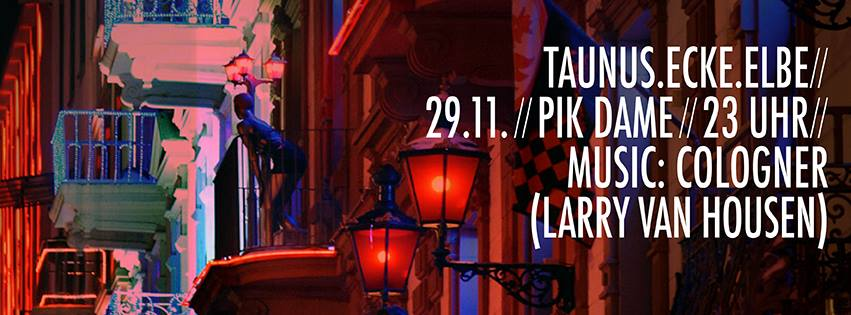
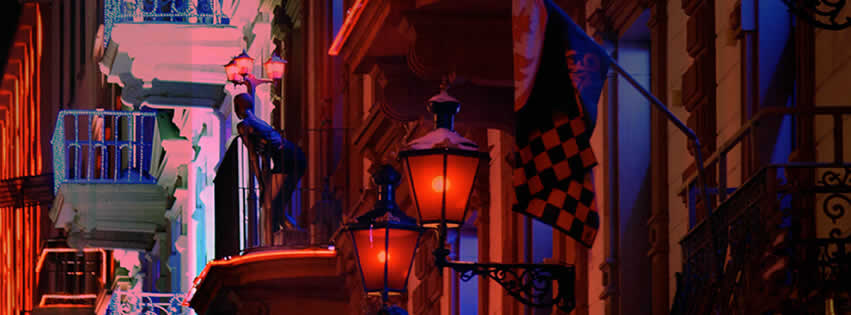
Pik-Dame Bilder geaddet, Texte korrigiert

diff --git a/assets/scss/main.scss b/assets/scss/main.scss
@@ -30,6 +30,7 @@ header {
     text-align:             center;
     font-size:              4em;
     padding-top:            60px;
+    background:             url("/assets/img/bg_header-text.jpg") left top no-repeat;
 }
 
 footer {

diff --git a/assets/css/main.css b/assets/css/main.css
@@ -32,7 +32,8 @@ article {
 header {
   text-align: center;
   font-size: 4em;
-  padding-top: 60px; }
+  padding-top: 60px;
+  }
 
 footer {
   text-align: right;

diff --git a/index.php b/index.php
@@ -79,7 +79,7 @@
   <div class="container main-container">
 
     <header>
-        <img src="assets/img/bg_header.jpg" class="img-responsive" alt="29.11. PIK DAME, FFM" width="1140">
+        <img src="/assets/img/bg_header-text.jpg" class="img-responsive" alt="29.11. PIK DAME, FFM" width="1140">
     </header>
 
     <article id="party">
@@ -94,7 +94,7 @@
                 <h3>TAUNUS.ECKE.ELBE</h3>
                 <dl class="dl-horizontal">
                   <dt>Wo</dt>
-                  <dd><a href="#" data-toggle="modal" data-target="#pikdame">Pik-Dame FFM</a></dd>
+                  <dd><a href="#" data-toggle="modal" data-target="#pikdame">Nachtclub Pik-Dame // FFM</a></dd>
                   <dt>Musik</dt>
                   <dd><a href="#" data-toggle="modal" data-target="#larryvanhousen">Larry van Housen. Big Hits.</a></dd>
                   <dt>Einlass</dt>
@@ -135,7 +135,15 @@
                   <div class="modal-dialog">
                     <div class="modal-content">
                       <div class="modal-body center-block">
-                        <iframe class="center-block" width="450" height="450" src="https://maps.google.de/maps?q=pik+dame+frankfurt&amp;ie=UTF8&amp;hq=pik+dame&amp;hnear=Frankfurt,+Darmstadt,+Hessen&amp;t=m&amp;ll=50.111937,8.668213&amp;spn=0.012385,0.019312&amp;z=15&amp;iwloc=A&amp;output=embed"></iframe>
+
+                        <p>
+                        <img src="/assets/img/pik-dame/pik1.jpg" alt="Pik-Dame" class="img-responsive img-thumbnail">
+                        </p>
+                        <p>
+                        <img src="/assets/img/pik-dame/pik2.jpg" alt="Pik-Dame" class="img-responsive img-thumbnail">
+                        </p>
+                        <iframe class="center-block" src="//www.facebook.com/plugins/likebox.php?href=https%3A%2F%2Fwww.facebook.com%2Fnachtclub.Pik.Dame&amp;width&amp;height=258&amp;colorscheme=light&amp;show_faces=true&amp;header=false&amp;stream=false&amp;show_border=true&amp;appId=312582552188555" scrolling="no" frameborder="0" style="border:none; overflow:hidden; height:258px;" allowTransparency="true"></iframe>
+
                       </div>
                       <div class="modal-footer">
                         <button type="button" class="btn btn-default" data-dismiss="modal">Schließen</button>
@@ -149,8 +157,7 @@
             <div class="col-md-5">
                 <h3>Was und warum?</h3>
                 <p>
-                  Taunus.Ecke.Elbe. Dort lebte Felix. Dort feierte Felix. Dort feiern wir. Für Felix. Die ganze Nacht. Direkt unter seinem Balkon. Bis es hell wird.
-                  <br>Kommt alle!
+                  Taunus.Ecke.Elbe. Dort lebte Felix. Dort feierte Felix. Dort feiern wir. Für Felix. Die ganze Nacht. Direkt unter seinem Balkon. Bis es hell wird. Kommt alle!
                 </p>
                 <!-- AddThis Button BEGIN -->
                 <div class="addthis_toolbox addthis_default_style ">
@@ -182,24 +189,23 @@
             </div>
             <div class="col-md-8">
                 <p>
-                  Felix Helbig wurde am 29.11.1981 geboren und fing schon mit 16 Jahren bei der Frankfurter Rundschau an. Schnell konnte er sich dort einen Namen machen und nach seinem Studium wurde er als Journalist eingestellt. Er lebte viele Jahre im pulsierenden Frankfurter Bahnhofsviertel.
+                  Felix Helbig wurde am 29.11.1980 geboren und fing schon mit 16 Jahren bei der Frankfurter Rundschau an. Schnell konnte er sich dort einen Namen machen und nach seinem Studium wurde er als Journalist eingestellt. Er lebte viele Jahre im pulsierenden Frankfurter Bahnhofsviertel.
                 </p>
                 <p>
-                  Am 13.02.2013 starb unser Freund leider plötzlich und viel zu früh. Viele Menschen in und um Frankfurt vermissen Ihn, seine Familie und Freunde genauso wie seine zahlreichen Leser bei der Frankfurter Rundschau. An dem Tag als Felix beerdigt wurde, wurde seine Zeitung, wie er sie gerne bezeichnete, verkauft.
+                  Am 13.02.2013 starb unser Freund leider plötzlich und viel zu früh. Viele Menschen in und um Frankfurt vermissen ihn, seine Familie und Freunde, genauso wie zahlreiche Leser der Frankfurter Rundschau. Am Tag seiner Beerdiung wurde "seine Zeitung", wie Felix sie gerne bezeichnete, verkauft.
                 </p>
                 <p>
-                  Felix der Journalist war ein Mensch der mit offenen Ohren und wachem Blick durchs Leben streifte. Seine Fähigkeiten lagen darin, Situationen rasch zu erkennen und hervorragend einzuschätzen. Er ließ nicht locker, er erkannte Ungerechtigkeiten und brachte sie immer wieder zu Papier. Trotzdem gelang ihm dies mit einer gewissen Lockerheit, nie waren seine Arbeiten verbissen oder schossen über das Ziel hinaus. Klare Worte, oft mit einem leichten, unterschwelligem Sarkasmus gepaart, die selten ihre Wirkung verfehlten, zeichneten Ihn aus und sorgten für Freude bei vielen Lesern.
+                  Felix, der Journalist, war ein Mensch, der mit offenen Ohren und wachem Blick durchs Leben streifte. Seine Fähigkeiten lagen darin, Situationen rasch zu erkennen und hervorragend einzuschätzen. Er ließ nicht locker, erkannte Ungerechtigkeiten und brachte sie immer wieder zu Papier. Trotzdem gelang ihm dies mit einer gewissen Lockerheit, nie waren seine Arbeiten verbissen oder schossen über das Ziel hinaus. Klare Worte, oft mit einem leichten, unterschwelligen Sarkasmus gepaart, die selten ihre Wirkung verfehlten, zeichneten ihn aus und sorgten für Freude bei vielen Lesern.
                 </p>
                 <p>
-                  Mit seinen investigativen Reportagen setzte er Zeichen. Er klärte auf, regte zum Nachdenken an, erzeugte Wut und Traurigkeit und warf Fragen auf. Er bohrte, ließ nicht locker und gab nie auf.                </p>
+                  Mit seinen investigativen Reportagen setzte er Zeichen. Er klärte auf, regte zum Nachdenken an, erzeugte Wut und Traurigkeit und warf Fragen auf. Er bohrte, ließ nicht locker und gab nie auf.
                 <p>
-                  Felix war ein großartiger Freund und fantastischer Mensch. Sein einmaliger Humor gepaart mit seiner ehrlichen Herzlichkeit zeichneten Ihn aus. Er liebte das Leben und genoss es jeden Tag. Viele Freunde verbinden unvergessene Momente mit Ihm, egal ob auf seinem Balkon direkt im Bahnhofsviertel, bei seiner geliebten Eintracht oder auf gemeinsamen Reisen und Festivals.
+                  Felix war ein großartiger Freund und fantastischer Mensch, mit einmaligem Humor und einer ehrlichen Herzlichkeit. Er liebte das Leben und genoss es jeden Tag. Viele Freunde verbinden unvergessene Momente mit ihm, egal ob auf seinem Balkon direkt im Bahnhofsviertel, bei seiner geliebten Eintracht oder auf gemeinsamen Reisen und Festivals.                </p>
+                <p>
+                  Wir wollen gemeinsam seinen Geburtstag feiern: Am 29.11.2013 wäre Felix 33 Jahre alt geworden.
                 </p>
                 <p>
-                  Wir wollen gemeinsam seinen Geburtstag feiern. Am 29.11.2013 wäre Felix 33 Jahre alt geworden.
-                </p>
-                <p>
-                  Um seine Arbeit auch über seinen Tod hinaus zu würdigen, wollen wir die Einnahmen aus der Party an <a href="http://www.investigate-ev.net">Investigate e.V.</a> spenden. Dieser Verein unterstützt Menschen die wie Felix über den Tellerrand schauen, klärt auf und fördert Journalisten.
+                  Um seine Arbeit auch über seinen Tod hinaus zu würdigen, wollen wir die Einnahmen aus der Party an <a href="http://www.investigate-ev.net">Investigate e.V.</a> spenden. Dieser Verein unterstützt Menschen, die wie Felix über den Tellerrand schauen aufklären und Journalisten fördern.
                 </p>
             </div>
         </div>
@@ -237,14 +243,14 @@
     <hr>
 
     <footer>
-        <p>&copy; TAUNUS.ECKE.ELBE 2013 | <a href="#" data-toggle="modal" data-target="#imprint">Impressum</a></p>
+        <p>&copy; TAUNUS.ECKE.ELBE 2013 | <a href="#" data-toggle="modal" data-target="#anbieter">Anbieter</a></p>
 
         <!-- Modal -->
-        <div class="modal fade" id="imprint" tabindex="-1" >
+        <div class="modal fade" id="anbieter" tabindex="-1" >
           <div class="modal-dialog">
             <div class="modal-content">
               <div class="modal-body">
-                <h3>Impressum</h3>
+                <h3>Anbieter-Kennzeichnung</h3>
                 <p>
                     Diese Website ist ein privates Angebot von:
                     <br><br>
@@ -256,7 +262,7 @@
                 </p>
               </div>
               <div class="modal-footer">
-                <button type="button" class="btn btn-default" data-dismiss="modal">Impressum schließen</button>
+                <button type="button" class="btn btn-default" data-dismiss="modal">Schließen</button>
               </div>
             </div><!-- /.modal-content -->
           </div><!-- /.modal-dialog -->
